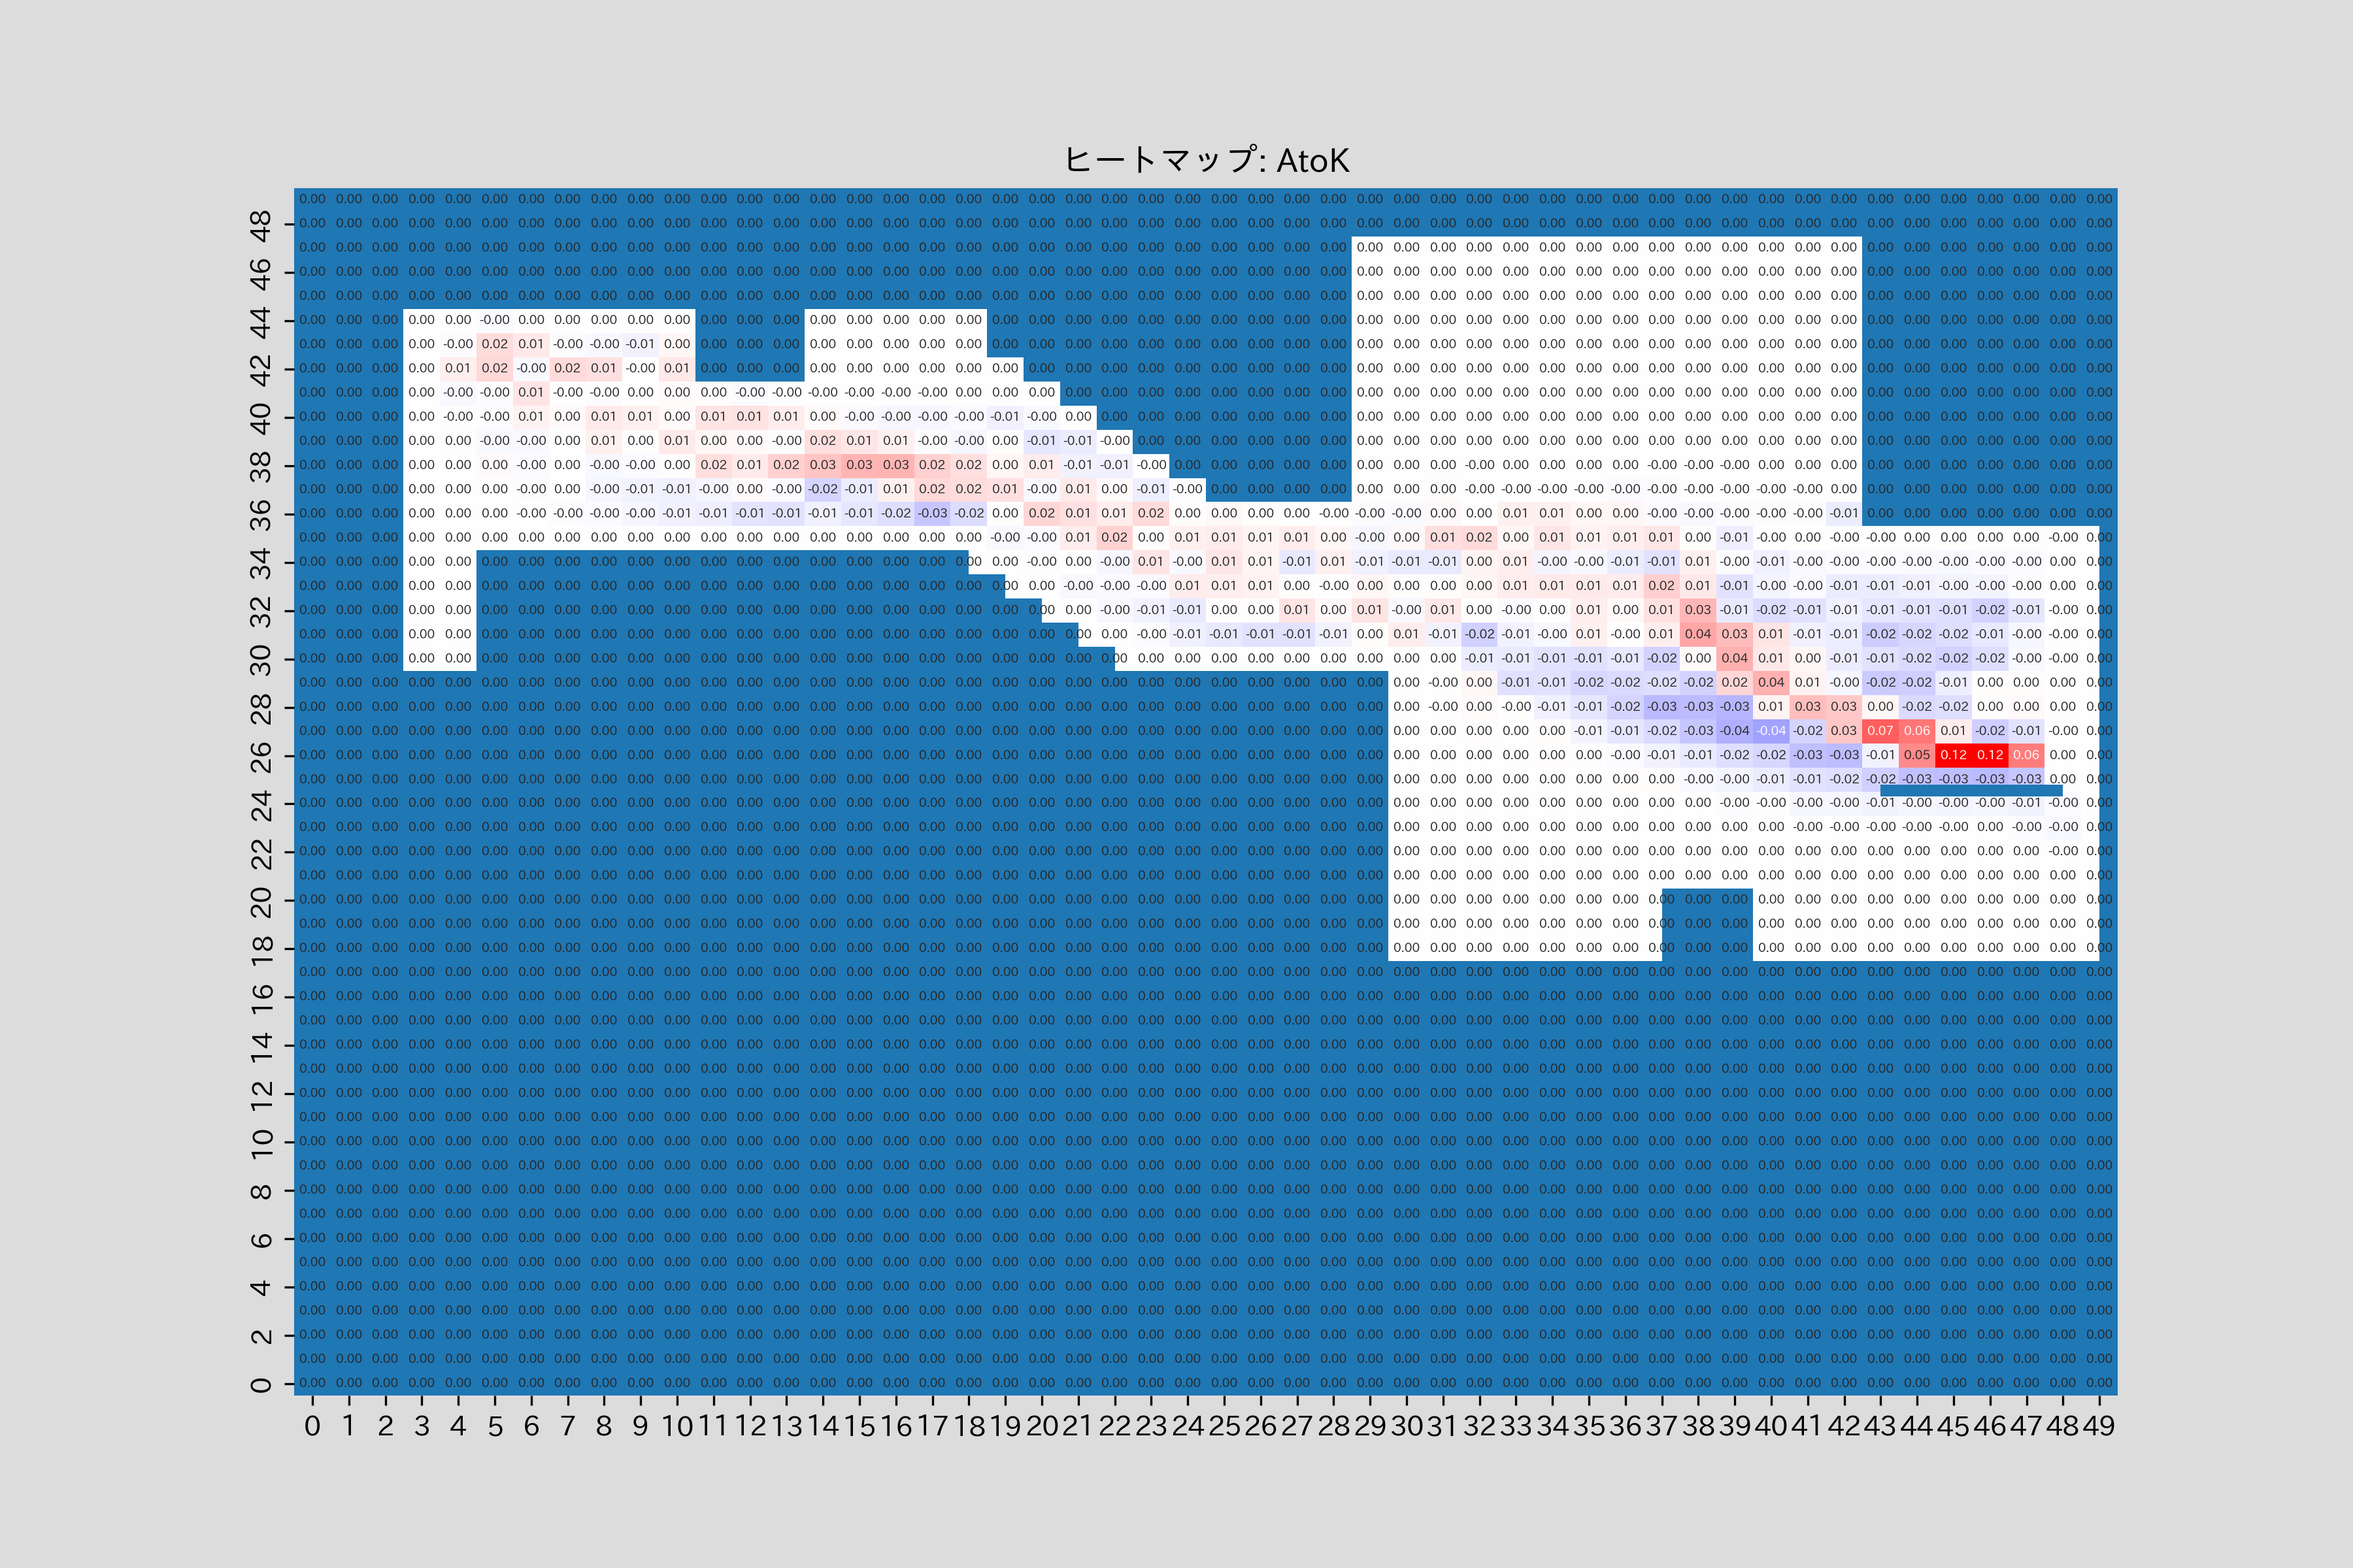
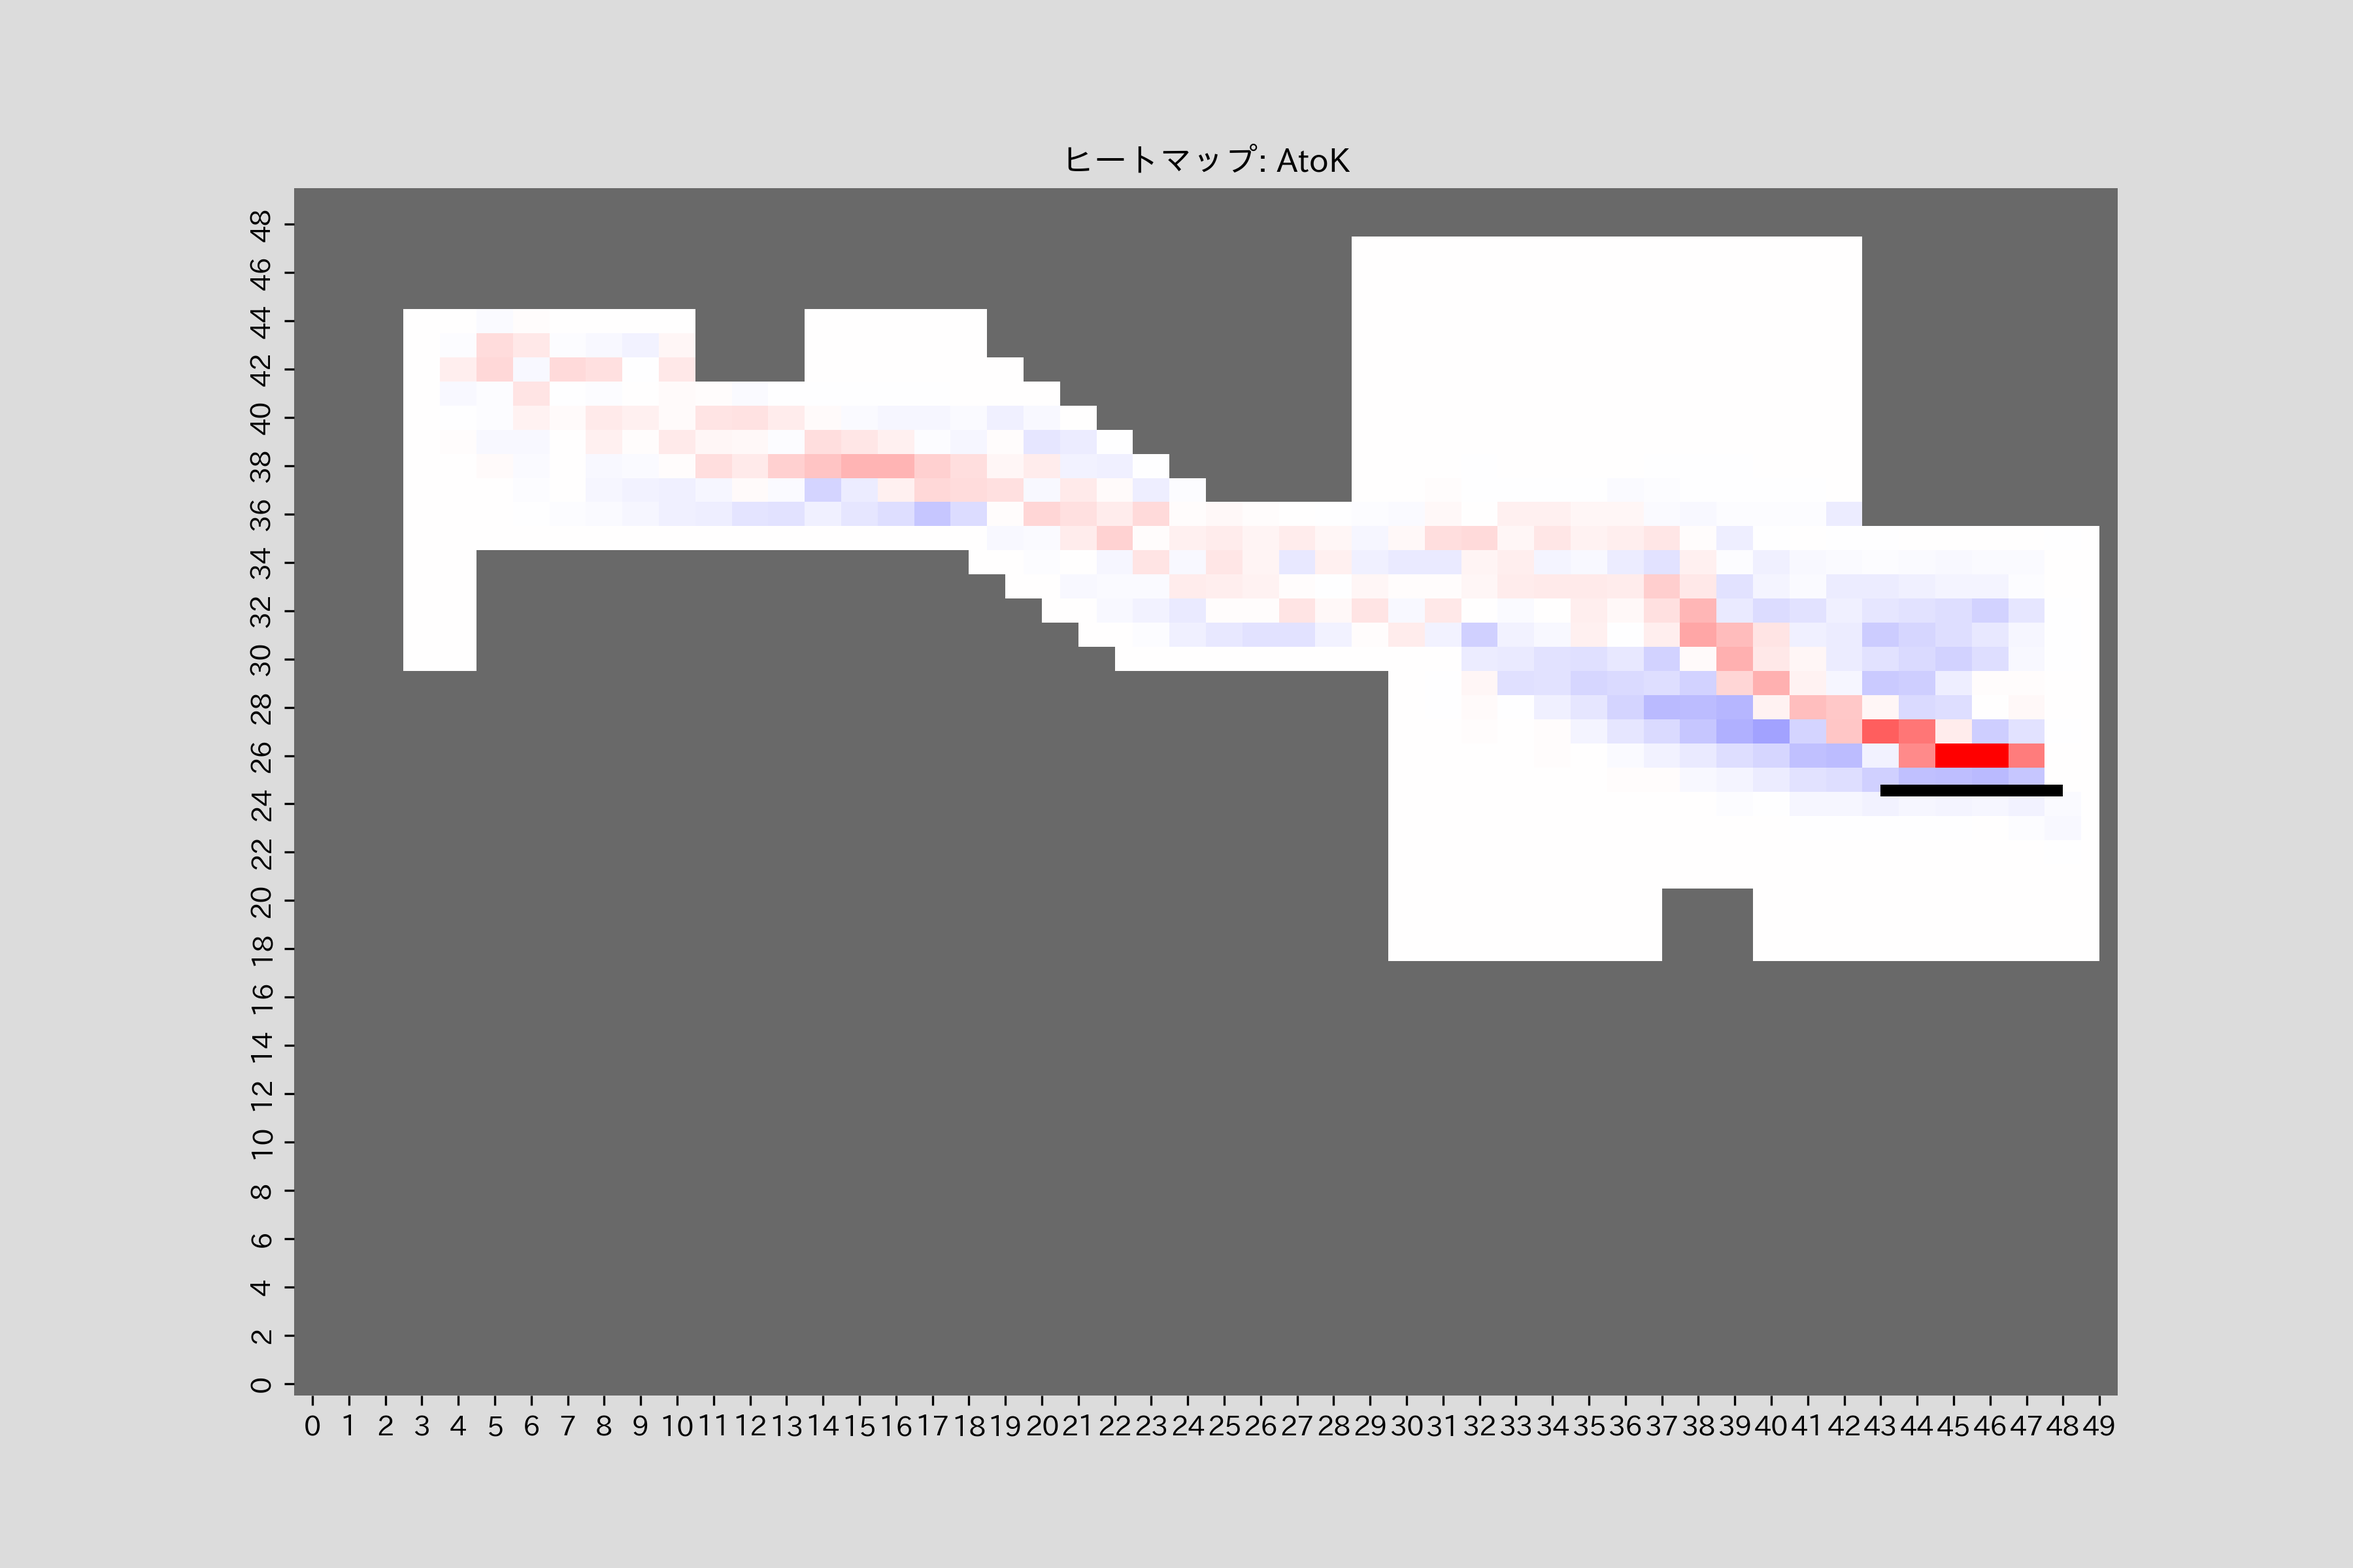
wall10のgap

diff --git a/gap_morning_latest.py b/gap_morning_latest.py
@@ -104,11 +104,11 @@ def GappingHeatmap(results, walls, fig_name):
     ax2.set_title("~ヒートマップの差~")
     ax2 = sns.heatmap(gap, cmap='bwr',cbar=False, annot=True, fmt='d', annot_kws={'fontsize':4.0}, vmax=8000, vmin=-8000)
     for wall in walls:
-            ax2.add_patch(Rectangle((wall[0]/10, wall[1]/10), (wall[2]-wall[0])/10, (wall[3]-wall[1])/10))
+            ax2.add_patch(Rectangle((wall[0]/10, wall[1]/10), (wall[2]-wall[0])/10, (wall[3]-wall[1])/10, fc='#696969'))
     ax2.invert_yaxis()
     # -- 壁ある時 --
     if kabe:
-        ax2.add_patch(Rectangle((addwalls[now_string][0]/10, addwalls[now_string][1]/10), (addwalls[now_string][2]-addwalls[now_string][0])/10, (addwalls[now_string][3]-addwalls[now_string][1])/10))
+        ax2.add_patch(Rectangle((addwalls[now_string][0]/10, addwalls[now_string][1]/10), (addwalls[now_string][2]-addwalls[now_string][0])/10, (addwalls[now_string][3]-addwalls[now_string][1])/10, fc='k'))
     
     fig2.savefig(f"{type}/{fig_name}/gap.png", dpi=300)
     plt.close(fig2)
@@ -145,13 +145,13 @@ def GappingHeatmapNew(now_agents_positions, walls, fig_name): # 正規化, posit
         if key in speeds:
             return
         else:
-            ax2 = sns.heatmap(gap, cmap='bwr',cbar=False, annot=True, fmt='.2f', annot_kws={'fontsize':4.5}, vmax=gap_max, vmin=-1*gap_max)
+            ax2 = sns.heatmap(gap, cmap='bwr',cbar=False, annot=False, fmt='.2f', annot_kws={'fontsize':4.5}, vmax=gap_max, vmin=-1*gap_max)
         for wall in walls:
-                ax2.add_patch(Rectangle((wall[0]/10, wall[1]/10), (wall[2]-wall[0])/10, (wall[3]-wall[1])/10))
+                ax2.add_patch(Rectangle((wall[0]/10, wall[1]/10), (wall[2]-wall[0])/10, (wall[3]-wall[1])/10, fc='#696969'))
         ax2.invert_yaxis()
 
         if kabe:
-            ax2.add_patch(Rectangle((addwalls[now_string][0]/10, addwalls[now_string][1]/10), (addwalls[now_string][2]-addwalls[now_string][0])/10, (addwalls[now_string][3]-addwalls[now_string][1])/10))
+            ax2.add_patch(Rectangle((addwalls[now_string][0]/10, addwalls[now_string][1]/10), (addwalls[now_string][2]-addwalls[now_string][0])/10, (addwalls[now_string][3]-addwalls[now_string][1])/10, fc='k'))
 
         # plt.show()
         fig2.savefig(f"{type}/{fig_name}/heatmap_gap_{key}.png", dpi=300)
@@ -194,4 +194,4 @@ def CountZero(now):
 
 
 HeatmappingNumber(now, walls, now_string)
-# GappingHeatmapNew(now, walls, now_string)
+GappingHeatmapNew(now, walls, now_string)
